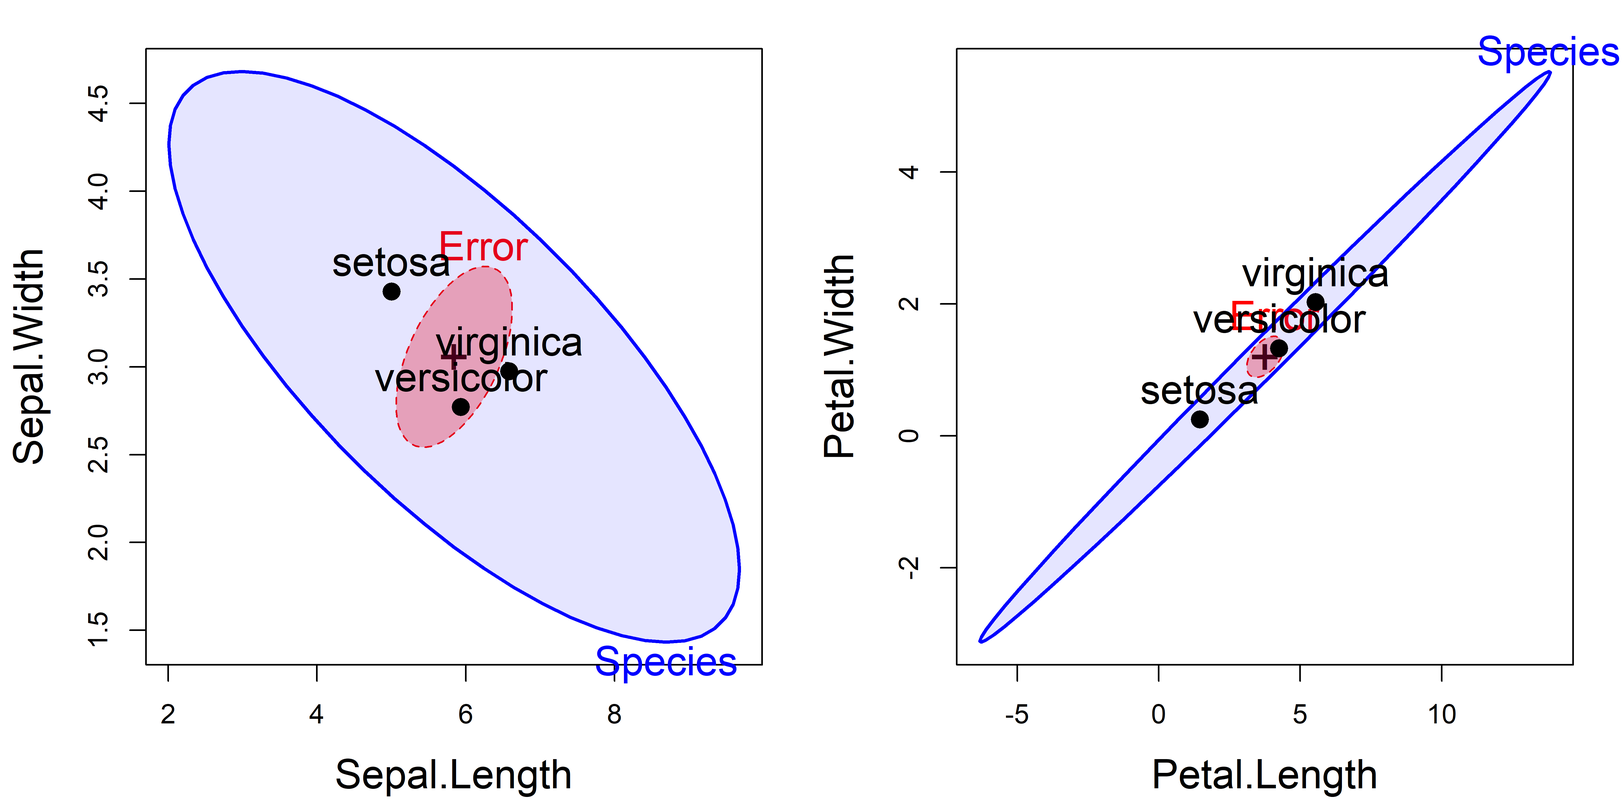
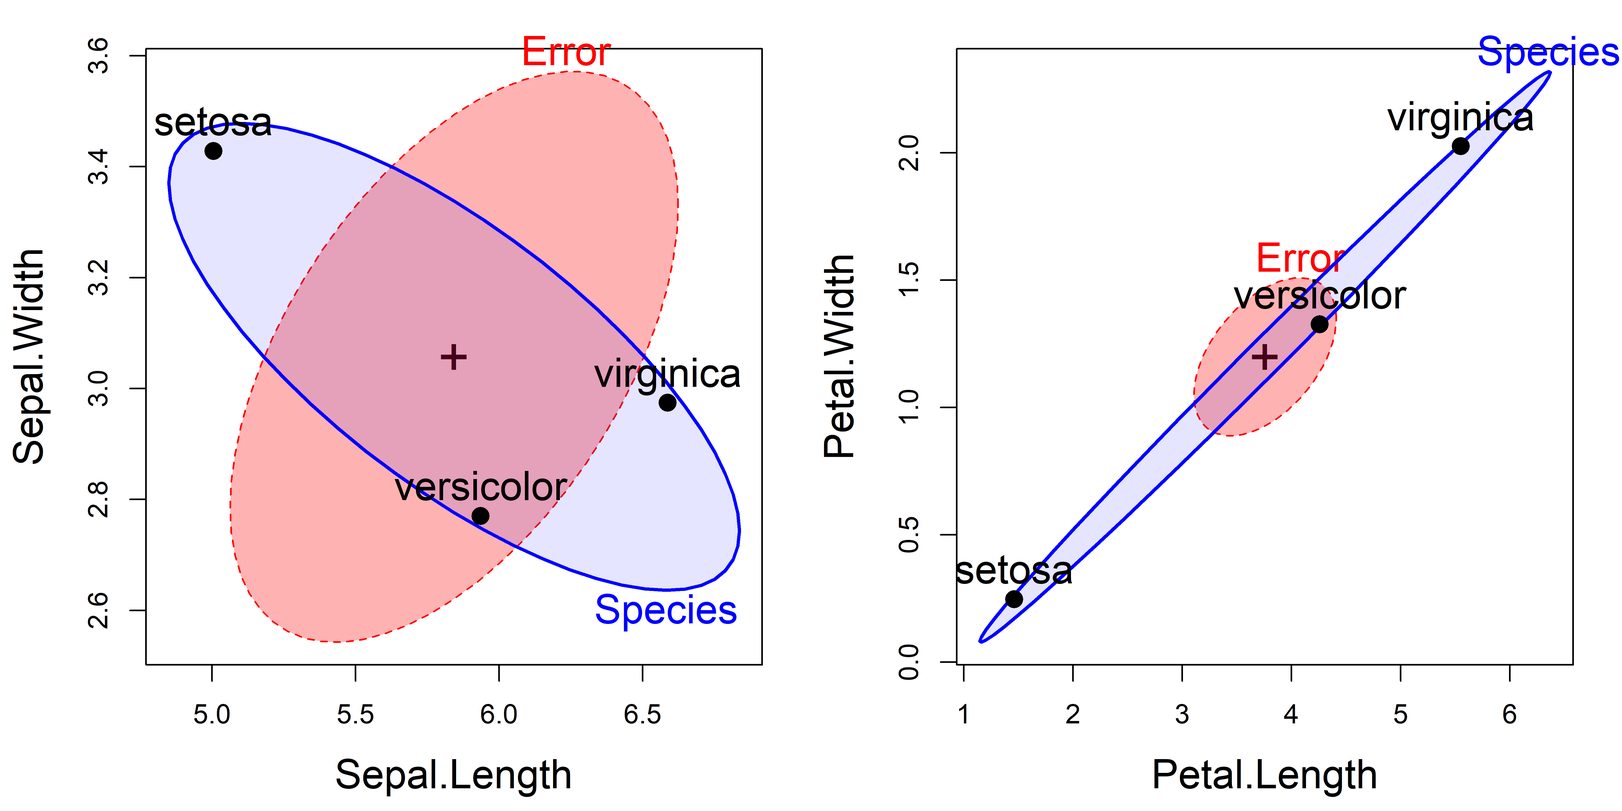
extend Ch11, HE plots, iris

diff --git a/docs/11-mlm-viz.html b/docs/11-mlm-viz.html
@@ -360,9 +360,9 @@ window.Quarto = {
   </ul>
 </li>
   <li><a href="#significance-scaling" id="toc-significance-scaling" class="nav-link" data-scroll-target="#significance-scaling"><span class="header-section-number">11.3</span> Significance scaling</a></li>
-  <li><a href="#contrasts" id="toc-contrasts" class="nav-link" data-scroll-target="#contrasts"><span class="header-section-number">11.4</span> Contrasts</a></li>
+  <li><a href="#visualizing-contrasts-and-linear-hypotheses" id="toc-visualizing-contrasts-and-linear-hypotheses" class="nav-link" data-scroll-target="#visualizing-contrasts-and-linear-hypotheses"><span class="header-section-number">11.4</span> Visualizing contrasts and linear hypotheses</a></li>
   <li><a href="#he-plot-matrices" id="toc-he-plot-matrices" class="nav-link" data-scroll-target="#he-plot-matrices"><span class="header-section-number">11.5</span> HE plot matrices</a></li>
-  <li><a href="#sec-candisc" id="toc-sec-candisc" class="nav-link" data-scroll-target="#sec-candisc"><span class="header-section-number">11.6</span> Canonical discriminant analysis</a></li>
+  <li><a href="#sec-candisc" id="toc-sec-candisc" class="nav-link" data-scroll-target="#sec-candisc"><span class="header-section-number">11.6</span> Low-D views: Canonical discriminant analysis</a></li>
   </ul><div class="toc-actions"><ul><li><a href="https://github.com/friendly/vis-MLM-book/issues/new" class="toc-action"><i class="bi bi-github"></i>Report an issue</a></li></ul></div></nav>
     </div>
 <!-- main -->
@@ -598,7 +598,7 @@ Figure&nbsp;11.3: Scatterplot matrix of the <code>iris</code> dataset. The speci
 <span class="header-section-number">11.2.3</span> HE plots</h3>
 <p>The <code><a href="https://friendly.github.io/heplots/reference/heplot.html">heplot()</a></code> function takes a <code>"mlm"</code> object and produces an HE plot for one pair of variables specified by the <code>variables</code> argument. By default, it plots the first two.</p>
 <div class="cell" data-layout-align="center">
-<div class="sourceCode" id="cb6" data-source-line-numbers="nil" data-code-line-numbers="nil"><pre class="downlit sourceCode r code-with-copy"><code class="sourceCode R"><span><span class="fu"><a href="https://friendly.github.io/heplots/reference/heplot.html">heplot</a></span><span class="op">(</span><span class="va">iris.mod</span>, variables <span class="op">=</span> <span class="fl">3</span><span class="op">:</span><span class="fl">4</span>,</span>
+<div class="sourceCode" id="cb6" data-source-line-numbers="nil" data-code-line-numbers="nil"><pre class="downlit sourceCode r code-with-copy"><code class="sourceCode R"><span><span class="fu"><a href="https://friendly.github.io/heplots/reference/heplot.html">heplot</a></span><span class="op">(</span><span class="va">iris.mod</span>, size <span class="op">=</span> <span class="st">"effect"</span>, variables <span class="op">=</span> <span class="fl">3</span><span class="op">:</span><span class="fl">4</span>,</span>
 <span>       cex <span class="op">=</span> <span class="fl">1.5</span>, cex.lab <span class="op">=</span> <span class="fl">1.5</span>,</span>
 <span>       fill<span class="op">=</span><span class="cn">TRUE</span>, fill.alpha<span class="op">=</span><span class="fu"><a href="https://rdrr.io/r/base/c.html">c</a></span><span class="op">(</span><span class="fl">0.3</span>, <span class="fl">0.1</span><span class="op">)</span><span class="op">)</span></span></code><button title="Copy to Clipboard" class="code-copy-button"><i class="bi"></i></button></pre></div>
 <div class="cell-output-display">
@@ -685,15 +685,17 @@ knitr::include_graphics("images/iris-HE1.png")
 <img src="images/iris-HE2.png" class="img-fluid quarto-figure quarto-figure-center figure-img" style="width:100.0%">
 </div>
 <figcaption class="quarto-float-caption-bottom quarto-float-caption quarto-float-fig" id="fig-iris-HE2-caption-0ceaefa1-69ba-4598-a22c-09a6ac19f8ca">
-Figure&nbsp;11.5: HE plots for sepal width and sepal length in the iris dataset. Left: effect scaling of the <span class="math inline">\(\mathbf{H}\)</span> matrix; right: significance scaling, where protrusion of <span class="math inline">\(\mathbf{H}\)</span> outside <span class="math inline">\(\mathbf{E}\)</span> indicates a significant effect by Roy’s test.
+Figure&nbsp;11.5: HE plots for sepal width and sepal length in the iris dataset. Left: <em>effect</em> scaling of the <span class="math inline">\(\mathbf{H}\)</span> matrix; right: <em>significance</em> scaling, where protrusion of <span class="math inline">\(\mathbf{H}\)</span> outside <span class="math inline">\(\mathbf{E}\)</span> indicates a significant effect by Roy’s test.
 </figcaption></figure>
 </div>
 </div>
 </div>
-</section><section id="contrasts" class="level2" data-number="11.4"><h2 data-number="11.4" class="anchored" data-anchor-id="contrasts">
-<span class="header-section-number">11.4</span> Contrasts</h2>
+<p>You can interpret the plot using effect scaling to indicate that the overall “size” of variation of the group means is roughly the same as that of within-group variation for the two sepal variables. Significance scaling weights the evidence against the null hypothesis that a given effect is zero.</p>
+</section><section id="visualizing-contrasts-and-linear-hypotheses" class="level2" data-number="11.4"><h2 data-number="11.4" class="anchored" data-anchor-id="visualizing-contrasts-and-linear-hypotheses">
+<span class="header-section-number">11.4</span> Visualizing contrasts and linear hypotheses</h2>
 <p>As described in <a href="10-mlm-review.html#sec-contrasts" class="quarto-xref"><span>Section 10.3.1</span></a>, tests of linear hypotheses and contrasts represented by the general linear test <span class="math inline">\(\mathcal{H}_0: \mathbf{C} \;\mathbf{B} = \mathbf{0}\)</span> provide a powerful way to probe the <em>specific</em> effects represented within the global null hypothesis, <span class="math inline">\(\mathcal{H}_0: \mathbf{B} = \mathbf{0}\)</span>, that all effects are zero.</p>
-<p>Because the contrasts <span class="math inline">\(\mathbf{c}_1\)</span> (“Species1”) and <span class="math inline">\(\mathbf{c}_2\)</span> (“Species2”) are orthogonal, i.e., <span class="math inline">\(\mathbf{c}_1^\top \mathbf{c}_2 = 0\)</span> their tests are statistically independent, and their <span class="math inline">\(\mathbf{H}\)</span> matrices are additive. They fully decompose the general question of differences among the groups into two independent questions regarding the contrasts.</p>
+<p>In this example the contrasts <span class="math inline">\(\mathbf{c}_1\)</span> (“Species1”) and <span class="math inline">\(\mathbf{c}_2\)</span> (“Species2”)<br>
+among the iris species are orthogonal, i.e., <span class="math inline">\(\mathbf{c}_1^\top \mathbf{c}_2 = 0\)</span>. Therefore, their tests are statistically independent, and their <span class="math inline">\(\mathbf{H}\)</span> matrices are additive. They fully decompose the general question of differences among the groups into two independent questions regarding the contrasts.</p>
 <p><span class="math display">\[
 \mathbf{H}_\text{Species} = \mathbf{H}_\text{Species1} + \mathbf{H}_\text{Species2}
 \]</span></p>
@@ -705,7 +707,7 @@ Figure&nbsp;11.5: HE plots for sepal width and sepal length in the iris dataset.
 <span><span class="co">#&gt; Species1          -0.837       0.371       -2.296      -0.953</span></span>
 <span><span class="co">#&gt; Species2          -0.326      -0.102       -0.646      -0.350</span></span></code><button title="Copy to Clipboard" class="code-copy-button"><i class="bi"></i></button></pre></div>
 </div>
-<p>Numerical tests of hypotheses using <code><a href="https://rdrr.io/pkg/car/man/linearHypothesis.html">linearHypothesis()</a></code> can be specified in a very general way</p>
+<p>Numerical tests of hypotheses using <code><a href="https://rdrr.io/pkg/car/man/linearHypothesis.html">linearHypothesis()</a></code> can be specified in a very general way. A character variable or vector tests whether the named coefficients are different from zero for all responses.</p>
 <div class="cell" data-layout-align="center">
 <div class="sourceCode" id="cb8" data-source-line-numbers="nil" data-code-line-numbers="nil"><pre class="downlit sourceCode r code-with-copy"><code class="sourceCode R"><span><span class="fu"><a href="https://rdrr.io/pkg/car/man/linearHypothesis.html">linearHypothesis</a></span><span class="op">(</span><span class="va">iris.mod</span>, <span class="st">"Species1"</span><span class="op">)</span> <span class="op">|&gt;</span> <span class="fu"><a href="https://rdrr.io/r/base/print.html">print</a></span><span class="op">(</span>SSP<span class="op">=</span><span class="cn">FALSE</span><span class="op">)</span></span>
 <span><span class="co">#&gt; </span></span>
@@ -730,34 +732,11 @@ Figure&nbsp;11.5: HE plots for sepal width and sepal length in the iris dataset.
 </div>
 <p>In passing, note that the <em>joint</em> test of these contrasts is exactly equivalent to the overall test of <code>Species</code> (results not shown).</p>
 <div class="cell" data-layout-align="center">
-<div class="sourceCode" id="cb9" data-source-line-numbers="nil" data-code-line-numbers="nil"><pre class="downlit sourceCode r code-with-copy"><code class="sourceCode R"><span><span class="fu"><a href="https://rdrr.io/pkg/car/man/linearHypothesis.html">linearHypothesis</a></span><span class="op">(</span><span class="va">iris.mod</span>, <span class="fu"><a href="https://rdrr.io/r/base/c.html">c</a></span><span class="op">(</span><span class="st">"Species1"</span>, <span class="st">"Species2"</span><span class="op">)</span><span class="op">)</span></span>
-<span><span class="co">#&gt; </span></span>
-<span><span class="co">#&gt; Sum of squares and products for the hypothesis:</span></span>
-<span><span class="co">#&gt;              Sepal.Length Sepal.Width Petal.Length Petal.Width</span></span>
-<span><span class="co">#&gt; Sepal.Length         63.2       -20.0        165.2        71.3</span></span>
-<span><span class="co">#&gt; Sepal.Width         -20.0        11.3        -57.2       -22.9</span></span>
-<span><span class="co">#&gt; Petal.Length        165.2       -57.2        437.1       186.8</span></span>
-<span><span class="co">#&gt; Petal.Width          71.3       -22.9        186.8        80.4</span></span>
-<span><span class="co">#&gt; </span></span>
-<span><span class="co">#&gt; Sum of squares and products for error:</span></span>
-<span><span class="co">#&gt;              Sepal.Length Sepal.Width Petal.Length Petal.Width</span></span>
-<span><span class="co">#&gt; Sepal.Length        38.96       13.63        24.62        5.65</span></span>
-<span><span class="co">#&gt; Sepal.Width         13.63       16.96         8.12        4.81</span></span>
-<span><span class="co">#&gt; Petal.Length        24.62        8.12        27.22        6.27</span></span>
-<span><span class="co">#&gt; Petal.Width          5.65        4.81         6.27        6.16</span></span>
-<span><span class="co">#&gt; </span></span>
-<span><span class="co">#&gt; Multivariate Tests: </span></span>
-<span><span class="co">#&gt;                  Df test stat approx F num Df den Df Pr(&gt;F)    </span></span>
-<span><span class="co">#&gt; Pillai            2       1.2       53      8    290 &lt;2e-16 ***</span></span>
-<span><span class="co">#&gt; Wilks             2       0.0      199      8    288 &lt;2e-16 ***</span></span>
-<span><span class="co">#&gt; Hotelling-Lawley  2      32.5      581      8    286 &lt;2e-16 ***</span></span>
-<span><span class="co">#&gt; Roy               2      32.2     1167      4    145 &lt;2e-16 ***</span></span>
-<span><span class="co">#&gt; ---</span></span>
-<span><span class="co">#&gt; Signif. codes:  0 '***' 0.001 '**' 0.01 '*' 0.05 '.' 0.1 ' ' 1</span></span></code><button title="Copy to Clipboard" class="code-copy-button"><i class="bi"></i></button></pre></div>
+<div class="sourceCode" id="cb9" data-source-line-numbers="nil" data-code-line-numbers="nil"><pre class="downlit sourceCode r code-with-copy"><code class="sourceCode R"><span><span class="fu"><a href="https://rdrr.io/pkg/car/man/linearHypothesis.html">linearHypothesis</a></span><span class="op">(</span><span class="va">iris.mod</span>, <span class="fu"><a href="https://rdrr.io/r/base/c.html">c</a></span><span class="op">(</span><span class="st">"Species1"</span>, <span class="st">"Species2"</span><span class="op">)</span><span class="op">)</span></span></code><button title="Copy to Clipboard" class="code-copy-button"><i class="bi"></i></button></pre></div>
 </div>
-<p>We can show these contrasts in an HE plot by supplying a named list for the <code>hypotheses</code> argument …</p>
+<p>We can show these contrasts in an HE plot by supplying a named list for the <code>hypotheses</code> argument. The names are used as labels in the plot. In the case of a 1-df multivariate test, the <span class="math inline">\(\mathbf{H}\)</span> ellipses plot as a degenerate line.</p>
 <div class="cell" data-layout-align="center">
-<div class="sourceCode" id="cb10" data-source-line-numbers="nil" data-code-line-numbers="nil"><pre class="downlit sourceCode r code-with-copy"><code class="sourceCode R"><span><span class="va">hyp</span> <span class="op">&lt;-</span> <span class="fu"><a href="https://rdrr.io/r/base/list.html">list</a></span><span class="op">(</span><span class="st">"S:Vv"</span><span class="op">=</span><span class="st">"Species1"</span>,<span class="st">"V:v"</span><span class="op">=</span><span class="st">"Species2"</span><span class="op">)</span></span>
+<div class="sourceCode" id="cb10" data-source-line-numbers="nil" data-code-line-numbers="nil"><pre class="downlit sourceCode r code-with-copy"><code class="sourceCode R"><span><span class="va">hyp</span> <span class="op">&lt;-</span> <span class="fu"><a href="https://rdrr.io/r/base/list.html">list</a></span><span class="op">(</span><span class="st">"S:Vv"</span> <span class="op">=</span> <span class="st">"Species1"</span>, <span class="st">"V:v"</span> <span class="op">=</span> <span class="st">"Species2"</span><span class="op">)</span></span>
 <span><span class="fu"><a href="https://friendly.github.io/heplots/reference/heplot.html">heplot</a></span><span class="op">(</span><span class="va">iris.mod</span>, hypotheses<span class="op">=</span><span class="va">hyp</span>,</span>
 <span>       cex <span class="op">=</span> <span class="fl">1.5</span>, cex.lab <span class="op">=</span> <span class="fl">1.5</span>,</span>
 <span>       fill<span class="op">=</span><span class="cn">TRUE</span>, fill.alpha<span class="op">=</span><span class="fu"><a href="https://rdrr.io/r/base/c.html">c</a></span><span class="op">(</span><span class="fl">0.3</span>,<span class="fl">0.1</span><span class="op">)</span>,</span>
@@ -765,17 +744,37 @@ Figure&nbsp;11.5: HE plots for sepal width and sepal length in the iris dataset.
 <span>       lty<span class="op">=</span><span class="fu"><a href="https://rdrr.io/r/base/c.html">c</a></span><span class="op">(</span><span class="fl">0</span>,<span class="fl">0</span>,<span class="fl">1</span>,<span class="fl">1</span><span class="op">)</span>, label.pos<span class="op">=</span><span class="fu"><a href="https://rdrr.io/r/base/c.html">c</a></span><span class="op">(</span><span class="fl">3</span>, <span class="fl">1</span>, <span class="fl">2</span>, <span class="fl">1</span><span class="op">)</span>,</span>
 <span>       xlim <span class="op">=</span> <span class="fu"><a href="https://rdrr.io/r/base/c.html">c</a></span><span class="op">(</span><span class="fl">2</span>, <span class="fl">10</span><span class="op">)</span>, ylim <span class="op">=</span> <span class="fu"><a href="https://rdrr.io/r/base/c.html">c</a></span><span class="op">(</span><span class="fl">1.4</span>, <span class="fl">4.6</span><span class="op">)</span><span class="op">)</span></span></code><button title="Copy to Clipboard" class="code-copy-button"><i class="bi"></i></button></pre></div>
 <div class="cell-output-display">
-<div class="quarto-figure quarto-figure-center">
-<figure class="figure"><p><img src="figs/ch11/unnamed-chunk-6-1.png" class="img-fluid quarto-figure quarto-figure-center figure-img" width="2100"></p>
-</figure>
+<div id="fig-iris-contrasts" class="quarto-float quarto-figure quarto-figure-center anchored" width="60%" data-fig-align="center">
+<figure class="quarto-float quarto-float-fig figure"><div aria-describedby="fig-iris-contrasts-caption-0ceaefa1-69ba-4598-a22c-09a6ac19f8ca">
+<img src="figs/ch11/fig-iris-contrasts-1.png" id="fig-iris-contrasts" class="img-fluid quarto-figure quarto-figure-center anchored figure-img" style="width:60.0%">
+</div>
+<figcaption class="quarto-float-caption-bottom quarto-float-caption quarto-float-fig quarto-uncaptioned" id="fig-iris-contrasts-caption-0ceaefa1-69ba-4598-a22c-09a6ac19f8ca"></figcaption></figure>
 </div>
 </div>
 </div>
+<p>This HE plot shows that, for the two sepal variables, the greatest between-species variation is accounted for by the contrast (“S:Vv”) between <em>setosa</em> and the others, for which the effect is very large in relation to error variation. The second contrast (“V:v”), between the <em>versicolor</em> and <em>virginica</em> species is relatively smaller, but still explains significant variation of the sepal variables among the species. The directions of these hypotheses in a given plot show <em>how</em> the group means differ in terms of a given contrast.<a href="#fn2" class="footnote-ref" id="fnref2" role="doc-noteref"><sup>2</sup></a></p>
 </section><section id="he-plot-matrices" class="level2" data-number="11.5"><h2 data-number="11.5" class="anchored" data-anchor-id="he-plot-matrices">
 <span class="header-section-number">11.5</span> HE plot matrices</h2>
 <p>In base R graphics, 2D scatterplots are extended to all pairwise views of multivariate data with a <code><a href="https://rdrr.io/r/graphics/pairs.html">pairs()</a></code> method. For multivariate linear models, the <span style="color: brown;"><strong>heplots</strong></span> defines a <code>pairs.mlm()</code> method to display HE plots for all pairs of the response variables.</p>
+<div class="cell" data-layout-align="center">
+<div class="sourceCode" id="cb11" data-source-line-numbers="nil" data-code-line-numbers="nil"><pre class="downlit sourceCode r code-with-copy"><code class="sourceCode R"><span><span class="fu"><a href="https://rdrr.io/r/graphics/pairs.html">pairs</a></span><span class="op">(</span><span class="va">iris.mod</span>,</span>
+<span>      fill<span class="op">=</span><span class="cn">TRUE</span>, fill.alpha<span class="op">=</span><span class="fu"><a href="https://rdrr.io/r/base/c.html">c</a></span><span class="op">(</span><span class="fl">0.3</span>, <span class="fl">0.1</span><span class="op">)</span><span class="op">)</span></span></code><button title="Copy to Clipboard" class="code-copy-button"><i class="bi"></i></button></pre></div>
+<div class="cell-output-display">
+<div id="fig-iris-pairs" class="quarto-float quarto-figure quarto-figure-center anchored" data-fig-align="center">
+<figure class="quarto-float quarto-float-fig figure"><div aria-describedby="fig-iris-pairs-caption-0ceaefa1-69ba-4598-a22c-09a6ac19f8ca">
+<img src="figs/ch11/fig-iris-pairs-1.png" class="img-fluid quarto-figure quarto-figure-center figure-img" style="width:100.0%">
+</div>
+<figcaption class="quarto-float-caption-bottom quarto-float-caption quarto-float-fig" id="fig-iris-pairs-caption-0ceaefa1-69ba-4598-a22c-09a6ac19f8ca">
+Figure&nbsp;11.7: All pairwise HE plots for the iris data
+</figcaption></figure>
+</div>
+</div>
+</div>
 </section><section id="sec-candisc" class="level2" data-number="11.6"><h2 data-number="11.6" class="anchored" data-anchor-id="sec-candisc">
-<span class="header-section-number">11.6</span> Canonical discriminant analysis</h2>
+<span class="header-section-number">11.6</span> Low-D views: Canonical discriminant analysis</h2>
+<p>The HE plot framework so far provides views of all the effects in a MLM in <em>variable</em> space, that we can see in 2D for selected pairs of response variables, or for all pairwise views in scatterplot matrix format. There is also an <code><a href="https://friendly.github.io/heplots/reference/heplot3d.html">heplot3d()</a></code> function giving plots for three response variables together. The 3D plots are interactive, in that they can be rotated and zoomed by mouse control, and dynamic, in that they can be made to spin and saved as movies. To save space, these plots are not shown here.</p>
+<p>However in a one-way MANOVA design with more than response three variables, it is difficult to visualize how the groups vary on <em>all</em> responses together, and how the different variables contribute to discrimination among groups. In this situation, <strong>canonical discriminant analysis</strong> (CDA) is often used, to provide a low-D visualization of between-group variation, analogous to a biplot (<a href="04-pca-biplot.html#sec-biplot" class="quarto-xref"><span>Section 4.3</span></a>) for purely quantitative variables.</p>
+<p>The key to this is the eigenvalue decomposition, <span class="math inline">\(\mathbf{H}\mathbf{E}^{-1} \lambda_i = \lambda_i \mathbf{v}_i\)</span> (<a href="#eq:mtest1" data-reference-type="eqref" data-reference="eq:mtest1">[eq:mtest1]</a>) of <span class="math inline">\(\mathbf{H}\)</span> relative to <span class="math inline">\(\mathbf{E}\)</span>. The eigenvalues, <span class="math inline">\(\lambda_i\)</span>, give the “size” of each <span class="math inline">\(s\)</span> orthogonal dimensions on which the multivariate tests are based. But the corresponding eigenvectors, <span class="math inline">\(\mathbf{v}_i\)</span>, give the weights for the response variables in <span class="math inline">\(s\)</span> linear combinations that maximally discriminate among the groups.</p>
 <div class="cell" data-layout-align="center">
 <pre data-code-line-numbers=""><code>#&gt; Writing packages to  C:/R/Projects/Vis-MLM-book/bib/pkgs.txt
 #&gt; 8  packages used here:
@@ -793,6 +792,9 @@ Bodmer, W., Bailey, R. A., Charlesworth, B., Eyre-Walker, A., Farewell, V., Mead
 <div id="ref-Fisher:1936" class="csl-entry" role="listitem">
 Fisher, R. A. (1936). The use of multiple measurements in taxonomic problems. <em>Annals of Eugenics</em>, <em>7</em>(2), 179–188. <a href="https://doi.org/10.1111/j.1469-1809.1936.tb02137.x">https://doi.org/10.1111/j.1469-1809.1936.tb02137.x</a>
 </div>
+<div id="ref-Friendly-etal:ellipses:2013" class="csl-entry" role="listitem">
+Friendly, M., Monette, G., &amp; Fox, J. (2013). Elliptical insights: Understanding statistical methods through elliptical geometry. <em>Statistical Science</em>, <em>28</em>(1), 1–39. <a href="https://doi.org/10.1214/12-STS402">https://doi.org/10.1214/12-STS402</a>
+</div>
 <div id="ref-DeSilva2020" class="csl-entry" role="listitem">
 Gayan De Silva. (2020). <em>Exploring the world of artificial neural networks -a beginner’s overview</em>. <a href="https://doi.org/10.13140/RG.2.2.14790.14406">https://doi.org/10.13140/RG.2.2.14790.14406</a>
 </div>
@@ -800,6 +802,7 @@ Gayan De Silva. (2020). <em>Exploring the world of artificial neural networks -a
 </section><section id="footnotes" class="footnotes footnotes-end-of-document" role="doc-endnotes"><hr>
 <ol>
 <li id="fn1"><p><a href="https://www.meganstodel.com/posts/no-to-iris/">Stop using iris</a><a href="#fnref1" class="footnote-back" role="doc-backlink">↩</a></p></li>
+<li id="fn2"><p>That the <span class="math inline">\(\mathbf{H}\)</span> ellipses for the contrasts subtend that for the overall test of <code>Species</code> is no accident. In fact, this is true in <span class="math inline">\(p\)</span>-dimensional space for <em>any</em> linear hypothesis, and orthogonal contrasts have the additional geometric property that they form <em>conjugate axes</em> for the overall <span class="math inline">\(\mathbf{H}\)</span> ellipsoid relative to the <span class="math inline">\(\mathbf{E}\)</span> ellipsoid <span class="citation" data-cites="Friendly-etal:ellipses:2013">(<a href="95-references.html#ref-Friendly-etal:ellipses:2013" role="doc-biblioref">Friendly et al., 2013</a>)</span>.<a href="#fnref2" class="footnote-back" role="doc-backlink">↩</a></p></li>
 </ol></section></main><!-- /main --><script id="quarto-html-after-body" type="application/javascript">
 window.document.addEventListener("DOMContentLoaded", function (event) {
   const toggleBodyColorMode = (bsSheetEl) => {

diff --git a/docs/03-multivariate_plots.html b/docs/03-multivariate_plots.html
@@ -2149,7 +2149,7 @@ Figure&nbsp;3.40: <strong>Projection example</strong>: (a) The 8 points in <stro
 <span><span class="fu"><a href="https://rdrr.io/r/graphics/lines.html">lines</a></span><span class="op">(</span><span class="va">axes.x</span>, <span class="va">axes.y</span>, col <span class="op">=</span> <span class="st">"grey"</span><span class="op">)</span></span>
 <span><span class="fu"><a href="http://friendly.github.io/matlib/reference/vectors.html">vectors</a></span><span class="op">(</span><span class="va">P2</span>, labels <span class="op">=</span> <span class="va">labs</span>, cex.lab <span class="op">=</span> <span class="fl">1.8</span>, lwd <span class="op">=</span> <span class="fl">3</span><span class="op">)</span></span>
 <span><span class="fu"><a href="https://rdrr.io/r/graphics/par.html">par</a></span><span class="op">(</span><span class="va">op</span><span class="op">)</span></span></code><button title="Copy to Clipboard" class="code-copy-button"><i class="bi"></i></button></pre></div>
-</details><div class="cell quarto-layout-panel" data-layout-align="center" data-layout-ncol="2">
+</details><div class="cell quarto-layout-panel" data-layout-ncol="2" data-layout-align="center">
 
 </div>
 <div class="cell" data-layout-align="center">
